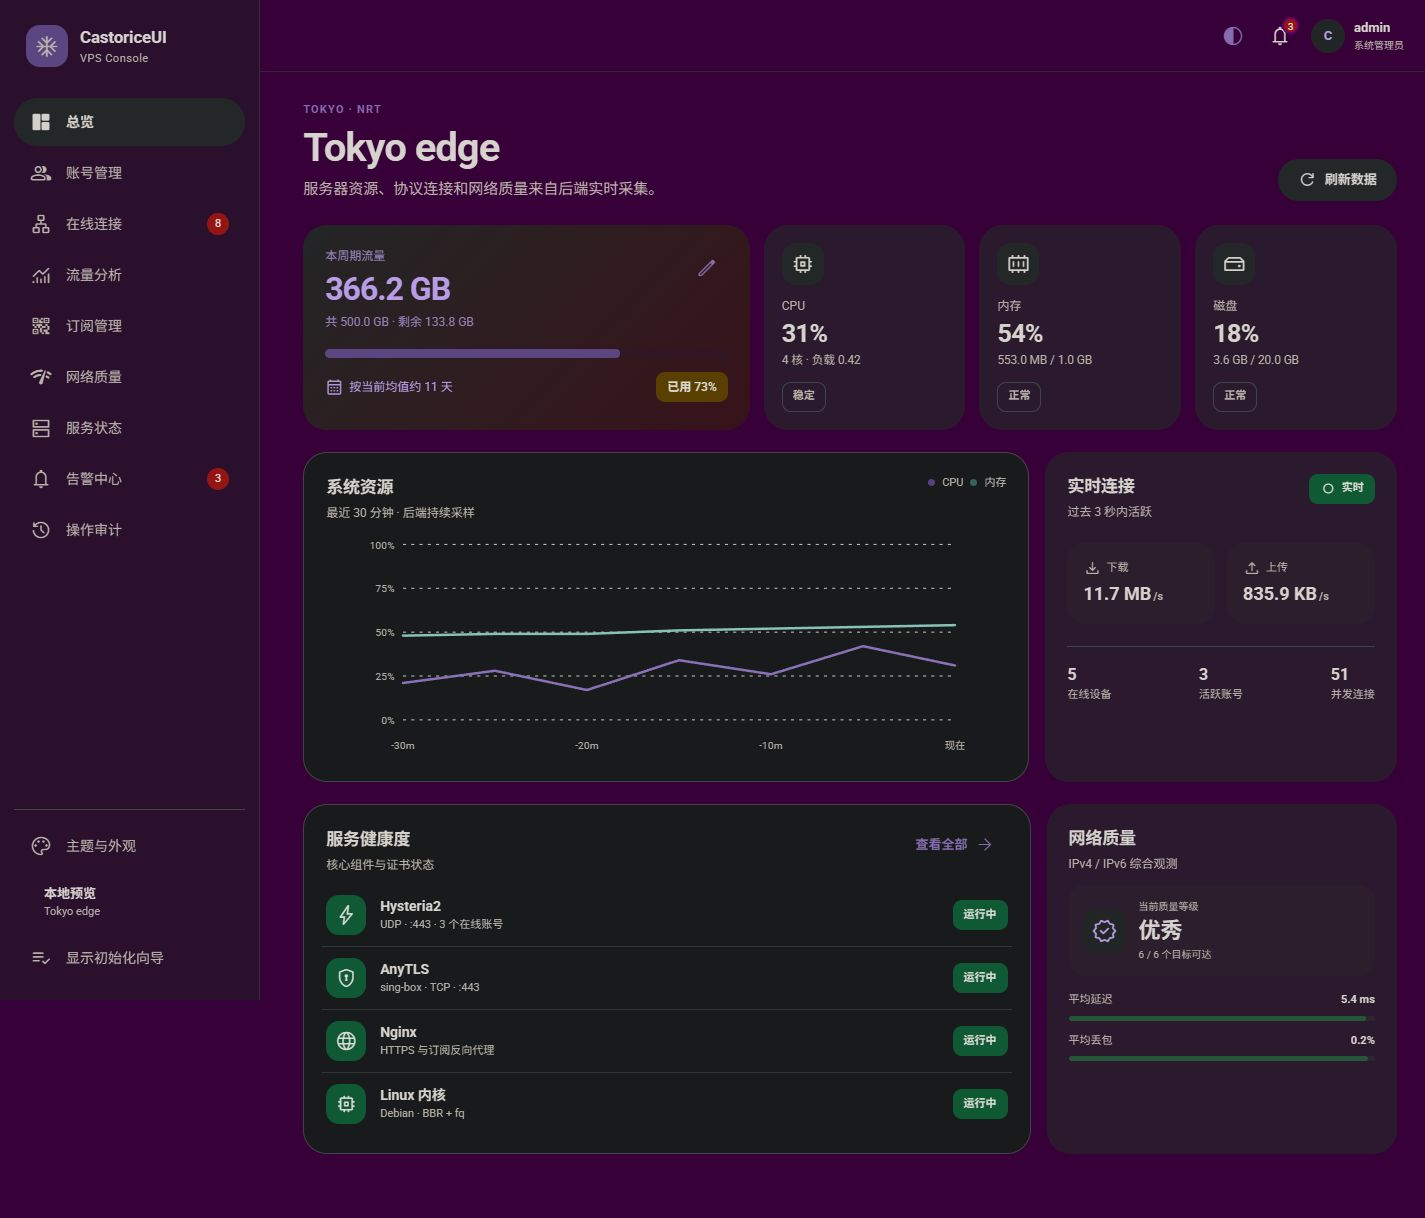
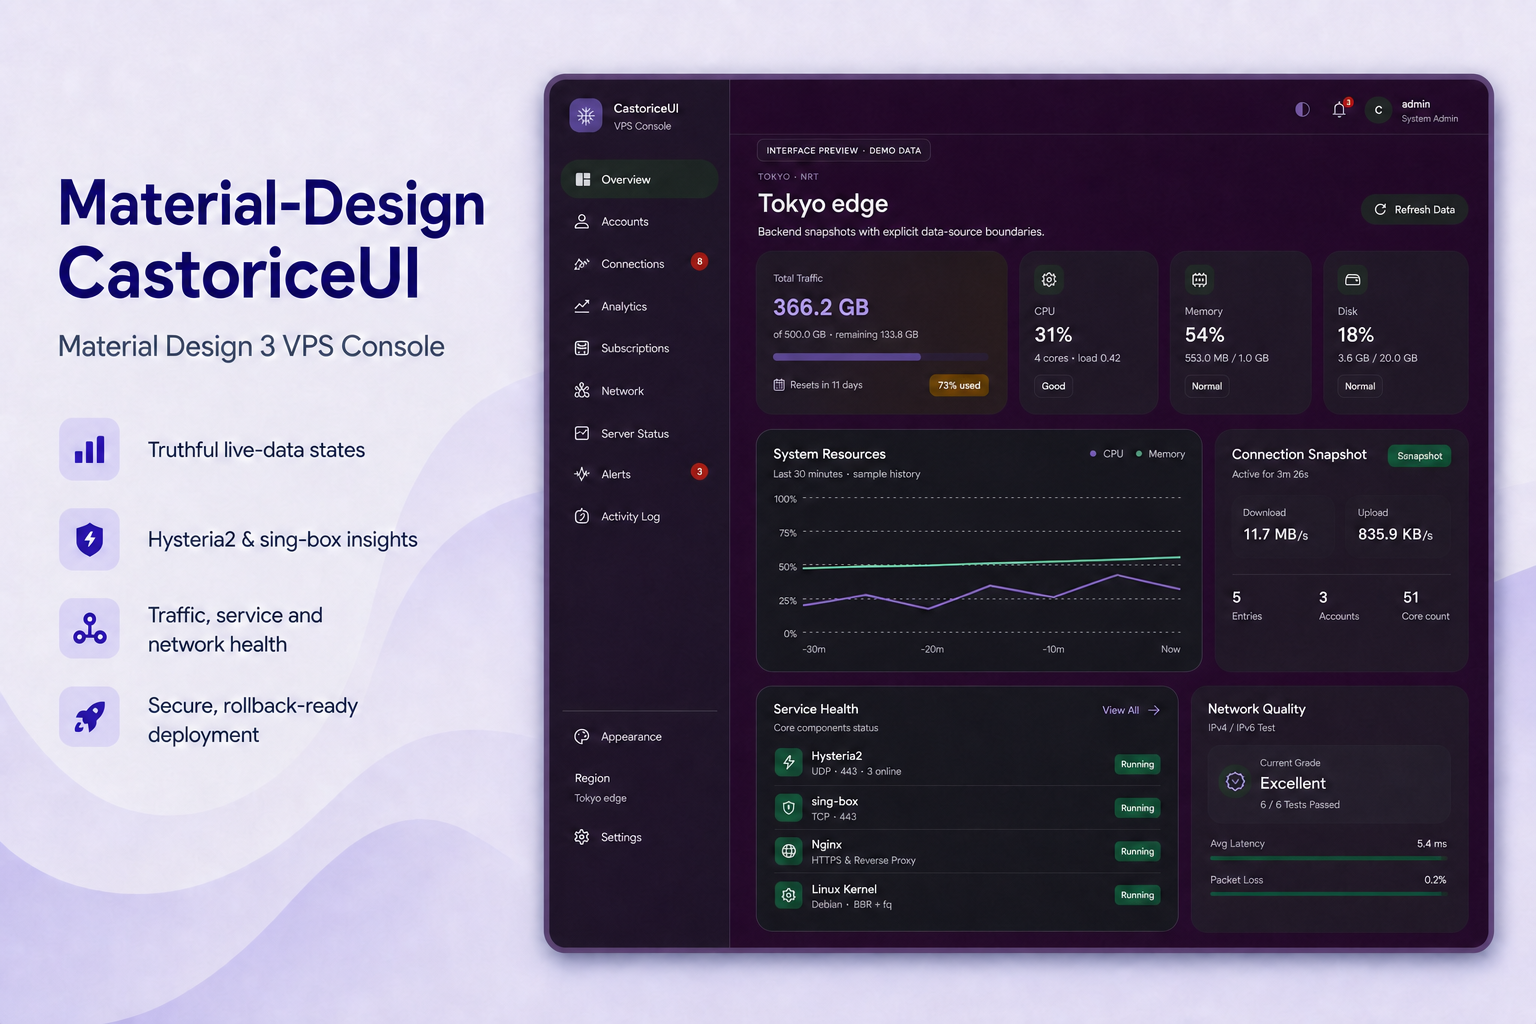
docs: refresh README desktop hero

diff --git a/README.md b/README.md
@@ -5,21 +5,21 @@
 ![React](https://img.shields.io/badge/React-19-38618C)
 ![Python](https://img.shields.io/badge/Python-3.11%2B-7B5F21)
 
-一套采用 Material Design 3 的轻量 VPS 代理管理面板，包含响应式前端、初始化向导和可选的 Python 标准库后端。它可以统一展示主机资源、Hysteria2、AnyTLS / sing-box、连接、流量、网络质量、证书、告警与审计信息。
+一套采用 Material Design 3 的开源轻量 VPS 代理管理面板，包含响应式前端、引导式接入和可选的 Python 标准库后端。它统一呈现主机资源、Hysteria2、AnyTLS / sing-box、连接快照、流量、网络质量、证书、告警与审计信息，并明确区分实时采样、缓存结果、配置记录、缺失字段和演示数据。
 
-A lightweight Material Design 3 VPS proxy console with a responsive frontend, guided integrations, and an optional Python standard-library backend. It provides one place for host metrics, Hysteria2, AnyTLS / sing-box, connections, traffic, network quality, certificates, alerts, and audit events.
+A lightweight open-source Material Design 3 VPS proxy console with a responsive frontend, guided integrations, and an optional Python standard-library backend. It brings host metrics, Hysteria2, AnyTLS / sing-box, connection snapshots, traffic, network quality, certificates, alerts, and audit events together without presenting cached, missing, configured, or demo values as live evidence.
 
-![CastoriceUI desktop dashboard](docs/images/dashboard-desktop.png)
+![Material-Design CastoriceUI desktop overview](docs/images/dashboard-desktop.png)
 
-<p align="center">
-  <img src="docs/images/dashboard-mobile.png" width="320" alt="CastoriceUI mobile dashboard">
-</p>
+> 上图为使用文档保留地址与演示数据生成的界面预览，不代表任何真实服务器状态。
+>
+> The hero uses documentation-safe demo data and does not represent a live server.
 
 [中文](#中文) · [English](#english)
 
 ## 中文
 
-### v1.4 真实性与状态修复
+### v1.4：可信数据状态
 
 - 首屏先显示中性加载状态，不再在真实后端响应前闪现示例服务器数字。
 - 后端中断时保留最后成功快照，但明确标记“已停止更新”和快照时间，不再继续声称实时。
@@ -30,23 +30,17 @@ A lightweight Material Design 3 VPS proxy console with a responsive frontend, gu
 - 订阅记录明确属于受保护的服务器配置；HTTPS 格式校验不代表发布器可达或已验证。
 - 网络探测明确标注最多缓存 5 分钟；月度流量继续明确以首个保留采样为基线。
 
-### 主要功能
+### 主要能力
 
-- 总览：已用/剩余流量、预计耗尽、CPU、内存、磁盘、负载、实时上下行
-- 初始化向导：按服务展示配置目的、操作步骤、参数输入与验证结果
-- 向导草稿：页面间切换不丢失，刷新或关闭页面后自动清除未提交内容
-- 接入状态：区分未配置、配置成功、当前可用和已配置但运行异常
-- 账号、在线连接、流量分析、订阅、网络质量、服务、告警与审计九个页面
-- 各页面包含简明的能力说明，方便首次部署者理解数据来源和安全边界
-- 侧栏与设置中均可显示/隐藏初始化向导，并支持浅色、深色、跟随系统和十组主题色
-- 后端快照状态位于侧栏底部；总览网络卡片显示质量等级、可达目标和探测结果
-- 账号、连接、服务等只读页面不再展示无法真正执行的伪操作按钮
-- 桌面、平板、手机响应式布局与无障碍弹窗/键盘导航
-- 接入配置只有在真实上游鉴权请求成功后才会标记为就绪，失败配置不会持久化
-- Hysteria2 / sing-box 管理地址只接受 localhost 或回环 IP，阻止公网、内网和云元数据地址
-- 上游 Secret 仅从服务器 `0640` 配置读取，不经浏览器提交、不写入 SQLite；启动时清理 v1.2 遗留值
-- 预览模式使用持续可见的“示例数据”提示，演示状态不再伪装成真实运行或验证成功
-- Nginx、systemd、版本化目录、认证、用户/组和回滚文档已统一为可复现的安全部署流程
+- **主机总览**：CPU、内存、磁盘、负载、运行时间、网卡速率和月度流量基线。
+- **协议快照**：Hysteria2 Traffic Stats 与 sing-box Clash API；只展示协议核心实际提供的字段。
+- **状态分层**：清楚区分加载中、实时快照、最后快照、预览数据、已配置和当前不可用。
+- **网络与服务**：IPv4 / IPv6 延迟、抖动、丢包、systemd、证书和自动更新状态。
+- **管理视图**：账号配置、活动连接条目、流量分析、订阅记录、告警和操作审计。
+- **安全接入**：管理 API 默认仅监听回环地址；上游 Secret 只保存在服务器 `0640` 配置中。
+- **真实验证**：Hysteria2 / sing-box 必须完成回环地址限制、连通性与鉴权检查后才可标记就绪。
+- **使用体验**：桌面、平板和手机响应式布局，无障碍弹窗与键盘导航，十组主题色。
+- **可回滚部署**：提供 Nginx、systemd、专用用户/组、版本化目录、备份与回滚流程。
 
 ### 后端能力
 
@@ -61,7 +55,7 @@ A lightweight Material Design 3 VPS proxy console with a responsive frontend, gu
 
 管理 API 默认只监听 `127.0.0.1`，由 Nginx 通过同源 `/api/` 转发。协议 API 也应只监听回环地址，并使用独立随机密钥。浏览器不会收到上游 API Secret、配置文件、私钥或明文密码。
 
-开源仓库、示例数据和 README 截图只使用文档保留地址与虚构账号。登录后的私有部署默认显示协议核心实际返回的账号、来源 IP 和审计来源，便于管理；如需演示环境，可设置 `redact_live_data: true`。无论该选项如何，常规仪表盘响应都不会包含完整订阅 URL、Token、上游 API Secret、配置文件、私钥或明文密码。复制地址和二维码只在管理员主动操作时从受保护端点按需读取。
+开源仓库、示例数据和 README 主视觉只使用文档保留地址与虚构账号。登录后的私有部署可以展示适配器实际返回的账号、来源 IP 和审计来源；如需演示环境，可设置 `redact_live_data: true`。无论该选项如何，常规仪表盘响应都不会包含完整订阅 URL、Token、上游 API Secret、配置文件、私钥或明文密码。完整订阅地址只在管理员主动复制或生成二维码时由受保护端点按需返回。
 
 ### 快速预览
 
@@ -118,7 +112,7 @@ tests/                  前端边界测试
 
 ## English
 
-### What v1.4 fixes
+### v1.4: trustworthy data states
 
 - Neutral loading state before the first backend response; demo metrics no longer flash during production startup
 - Explicit stale-snapshot state after a backend disconnect, including the last successful timestamp
@@ -129,21 +123,15 @@ tests/                  前端边界测试
 
 ### Main capabilities
 
-- Live overview for quota, forecast, CPU, memory, disk, load, and network rates
-- Guided integration cards with purpose, ordered steps, parameter forms, and verification state
-- Session-only form drafts that survive page navigation but disappear after a reload
-- Integration gates on every functional page; completed services move below pending setup items
-- Accounts, connections, traffic, subscriptions, network, services, alerts, and audit views
-- Concise capability explanations for every page
-- Setup visibility controls in both the sidebar and settings, light/dark/system modes, and ten color themes
-- Sidebar live-data status, network quality grades, and resilient service-version rendering
-- Read-only views omit controls that cannot perform a real backend operation
-- Responsive desktop, tablet, and mobile navigation
-- Authenticated upstream probes before an integration can become ready
-- Strict loopback-only management endpoints to block internal, public, and cloud-metadata targets
-- Server-config-only upstream Secrets, with no browser or SQLite persistence and automatic v1.2 cleanup
-- Persistent preview-mode labeling that never presents demo data as a live or verified server
-- Reproducible authenticated Nginx, systemd account/group, versioned-release, and rollback documentation
+- **Host overview:** CPU, memory, disk, load, uptime, interface rates, and a retained monthly traffic baseline.
+- **Protocol snapshots:** Hysteria2 Traffic Stats and sing-box Clash API data, limited to fields the cores actually return.
+- **Explicit state model:** loading, live snapshot, stale snapshot, preview data, configured, and runtime-error states.
+- **Network and services:** IPv4/IPv6 latency, jitter, loss, systemd, certificate, and automatic-update health.
+- **Operator views:** configured accounts, activity entries, traffic, subscription records, alerts, and audit events.
+- **Security boundary:** loopback-only management endpoints and server-config-only upstream Secrets.
+- **Authenticated readiness:** protocol adapters become ready only after bounded connectivity and authentication probes.
+- **Responsive UI:** desktop, tablet, and mobile navigation, accessible dialogs, keyboard support, and ten color themes.
+- **Rollback-ready deployment:** authenticated Nginx, a dedicated systemd identity, versioned releases, backups, and rollback guidance.
 
 ### Backend
 
@@ -151,7 +139,7 @@ The optional backend under `server/` uses only the Python standard library and S
 
 The API listens on loopback by default and is exposed only through the authenticated same-origin `/api/` reverse proxy. Upstream secrets, raw configuration files, private keys, and plaintext passwords are never returned to the browser.
 
-Repository examples and screenshots remain documentation-safe. A private authenticated deployment shows the real account, source IP, and audit identifiers returned by its adapters by default; operators can opt into presentation masking with `redact_live_data: true`. Subscription URLs and tokens remain excluded from the dashboard payload in both modes. A protected endpoint returns a URL only for an explicit copy or QR action, and the QR value is cleared from page memory when the dialog closes.
+Repository examples and the README hero remain documentation-safe and explicitly labeled as demo data. A private authenticated deployment can show the account, source IP, and audit identifiers actually returned by its adapters; operators can opt into presentation masking with `redact_live_data: true`. Subscription URLs and tokens remain excluded from the dashboard payload. A protected endpoint returns a URL only for an explicit copy or QR action, and the QR value is cleared from page memory when the dialog closes.
 
 ### Development
 
